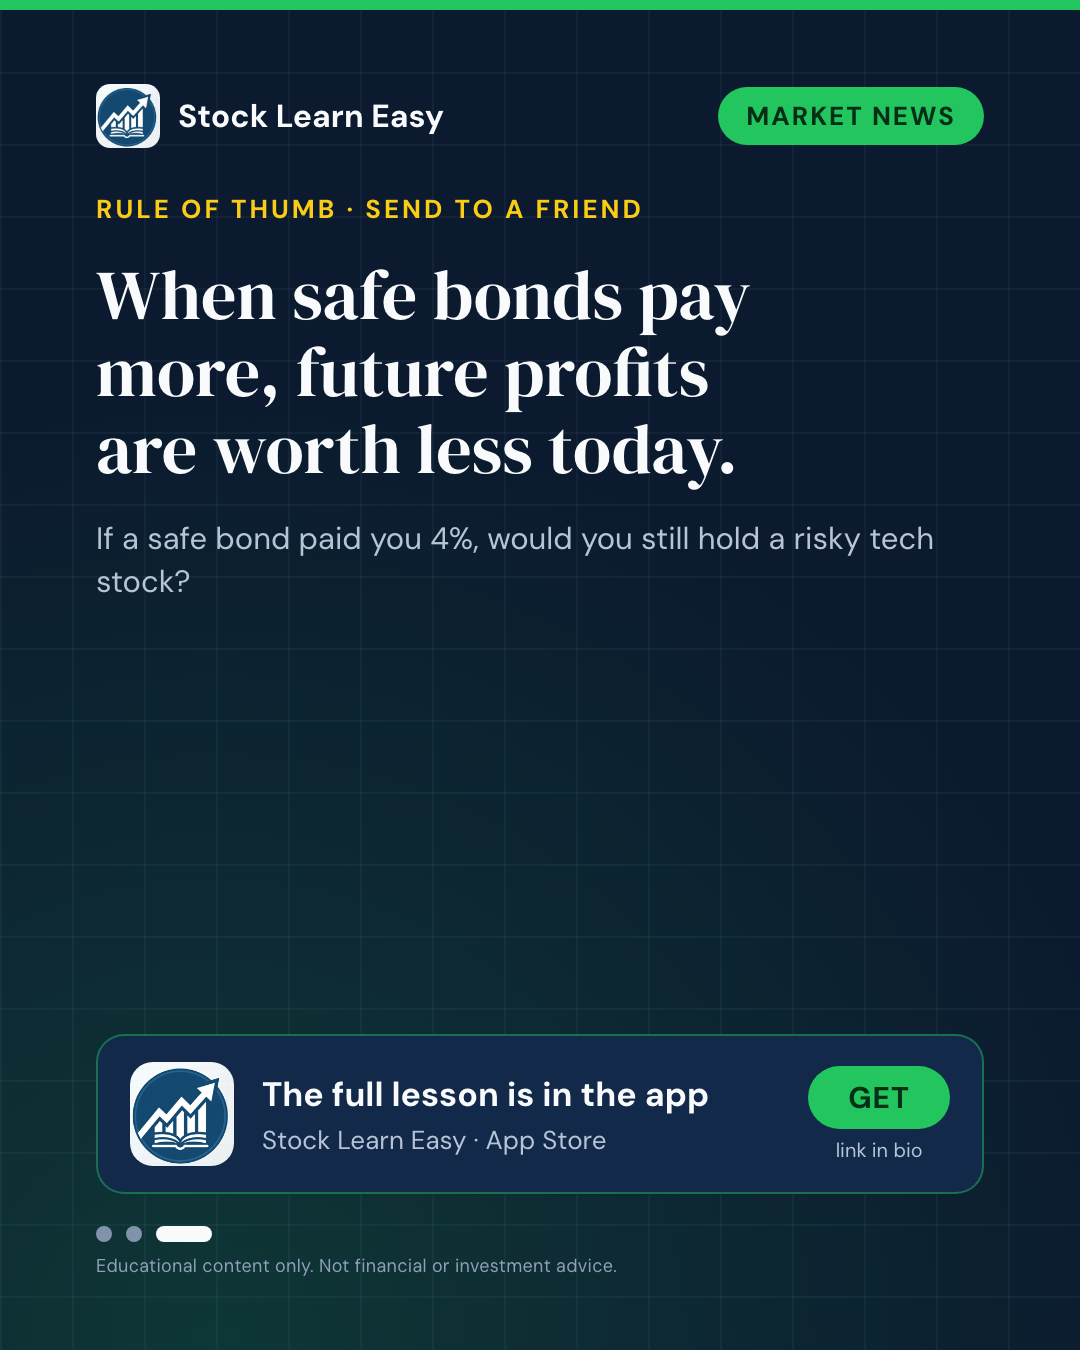
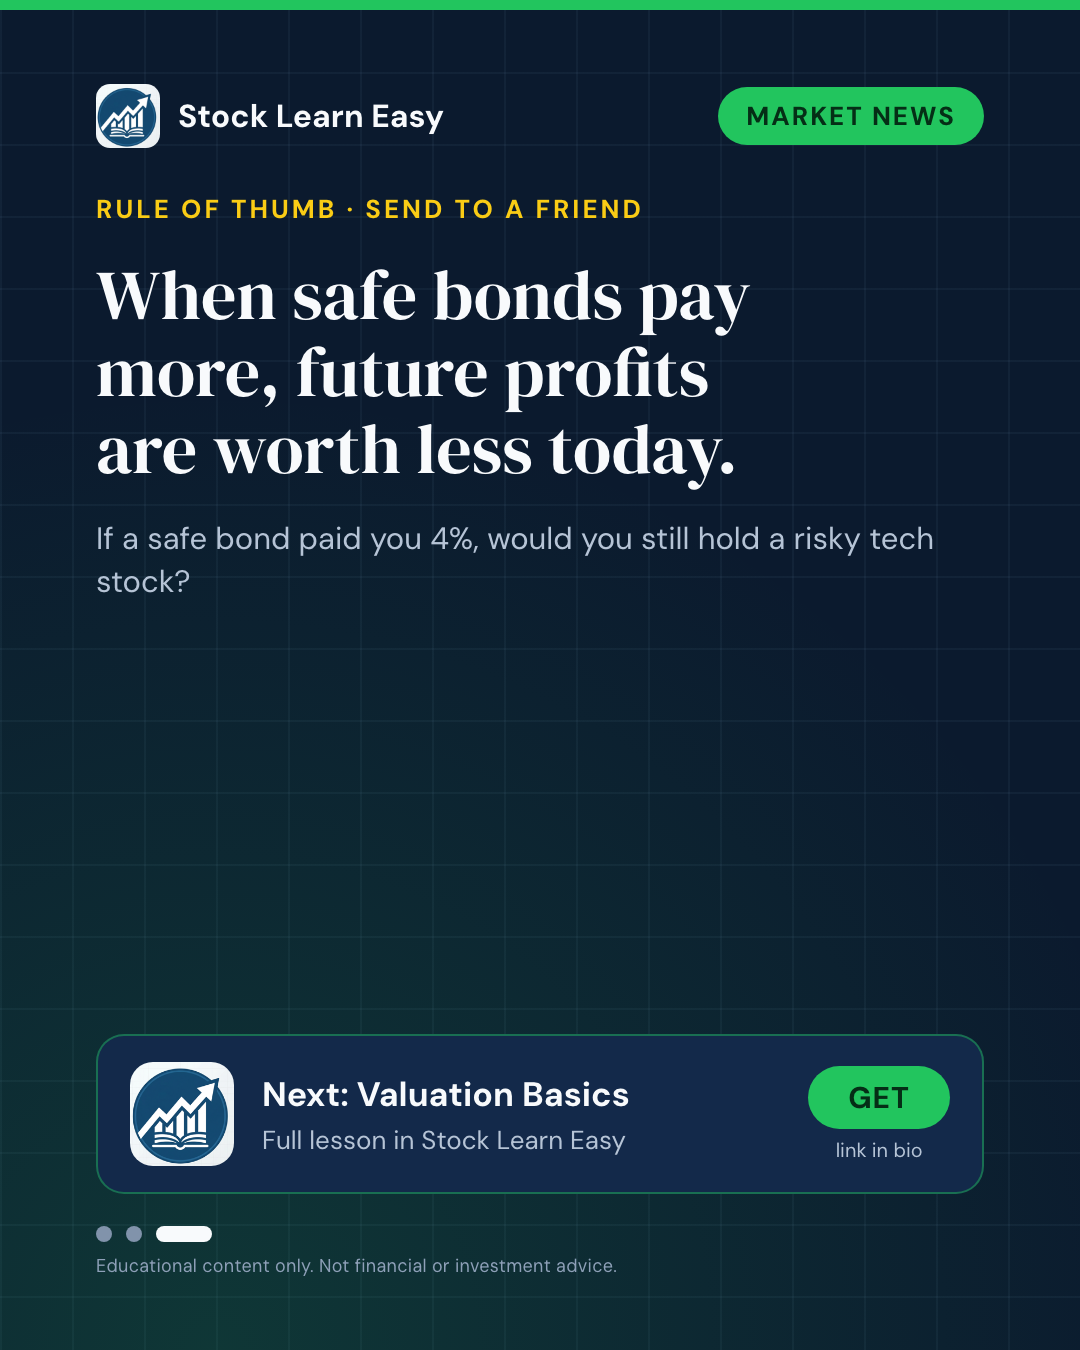
Item 74: name the app lesson the post continues into, in the caption and the closing card

Changed region(s): [[0.2444, 0.7778, 0.6722, 0.8711]]

diff --git a/lessons.py b/lessons.py
@@ -1,0 +1,165 @@
+"""Backlog item 74 (20.10.2026): name the lesson that continues in the app.
+
+Until now every caption and every closing card said "the full lesson", which
+promises nothing in particular. A reader who just learned what a stock split
+is will tap for "Dividends & Stock Splits", not for "the full lesson".
+
+The catalogue below is the English app's own lesson list, copied from
+~/stock-learn-easy-mobile/src/data/en/lessons (44 lessons, the number on the
+App Store page) on 20.10.2026. If a lesson is renamed in the app, rename it
+here; the title must be one a user can actually find.
+
+Gated, not asked for: the copy model never writes the lesson name. It is
+picked here from the post's own words, and a post that matches nothing well
+enough keeps the generic line. An invented lesson title cannot ship, because
+the only titles that can come out of this module are the ones in LESSONS.
+"""
+
+import re
+
+# (app title, short title for the card, keyword phrases). Phrases are matched
+# as whole words, case-insensitive. Keep them specific: a phrase that fits half
+# the news ("market", "stock") would route everything to one lesson.
+LESSONS = [
+    ("What Are Stocks?", "What Are Stocks?",
+     ["what is a stock", "shareholder", "shareholders", "equity", "preferred stock",
+      "common stock", "ownership", "ipo", "going public", "blue chip"]),
+    ("How Stock Markets Work", "How Stock Markets Work",
+     ["stock exchange", "nyse", "nasdaq", "market maker", "market makers",
+      "bid-ask", "bid ask", "bid-ask spread", "trading hours", "liquidity", "short selling"]),
+    ("Understanding Market Capitalization", "Market Capitalization",
+     ["market cap", "market capitalization", "large-cap", "small-cap", "mid-cap",
+      "magnificent seven", "megacap", "mega-cap", "index concentration"]),
+    ("Bull & Bear Markets", "Bull & Bear Markets",
+     ["bull market", "bear market", "correction", "market cycle", "sentiment",
+      "record high", "52-week high/low", "selloff", "sell-off", "rally", "52-week high", "52-week low",
+      "calendar effect", "october"]),
+    ("Dividends & Stock Splits", "Dividends & Stock Splits",
+     ["dividend", "dividends", "dividend yield", "stock split", "reverse split",
+      "payout", "ex-dividend", "buyback", "buybacks"]),
+    ("Types of Stock Orders", "Types of Stock Orders",
+     ["limit order", "market order", "stop-loss", "stop loss", "order type"]),
+    ("Income Statement Analysis", "The Income Statement",
+     ["revenue", "earnings", "profit", "profits", "margin", "margins", "ebitda",
+      "net income", "quarterly results", "sales"]),
+    ("Balance Sheet Fundamentals", "The Balance Sheet",
+     ["balance sheet", "debt", "liabilities", "assets", "book value"]),
+    ("Cash Flow Statement", "Cash Flow Statement",
+     ["cash flow", "free cash flow", "capex", "capital spending", "big spending",
+      "deferred costs"]),
+    ("Key Financial Ratios", "Key Financial Ratios",
+     ["ratio", "ratios", "roe", "return on equity", "leverage"]),
+    ("Growth Metrics & Analysis", "Growth Metrics",
+     ["growth", "slowing growth", "cagr", "peg", "growth rate", "eps growth"]),
+    ("Competitive Analysis", "Competitive Analysis",
+     ["competitor", "competitors", "competition", "moat", "market share",
+      "rival", "rivals", "soda wars", "picks and shovels", "contract", "contracts"]),
+    ("Valuation Basics & Intrinsic Value", "Valuation Basics",
+     ["valuation", "valuations", "intrinsic value", "overvalued", "undervalued",
+      "fair value", "expectations"]),
+    ("Price-to-Earnings (P/E) Analysis", "P/E Analysis",
+     ["p/e", "pe ratio", "price-to-earnings", "price to earnings", "earnings multiple",
+      "forward earnings", "cape"]),
+    ("Discounted Cash Flow (DCF) Model", "The DCF Model",
+     ["dcf", "discounted cash flow", "discount rate", "present value"]),
+    ("Dividend Discount Model (DDM)", "Dividend Discount Model",
+     ["dividend discount", "gordon growth"]),
+    ("Risk Basics & Fundamentals", "Risk Basics",
+     ["risk tolerance", "time horizon", "risk"]),
+    ("Types of Investment Risk", "Types of Investment Risk",
+     ["credit risk", "interest rate risk", "inflation risk", "currency risk",
+      "headline risk", "new competitor risk", "concentration risk", "default"]),
+    ("Risk Assessment & Measurement", "Measuring Risk",
+     ["volatility", "vix", "beta", "drawdown", "standard deviation", "sharpe"]),
+    ("Behavioral & Psychological Risk", "Behavioral Risk",
+     ["fear", "greed", "panic", "fomo", "bias", "biases", "herd", "anxiety",
+      "emotion", "emotions", "happiness"]),
+    ("Hedging Techniques", "Hedging Techniques",
+     ["hedge", "hedging", "options", "put option", "inverse etf"]),
+    ("Chart Basics & Candlesticks", "Chart Basics",
+     ["candlestick", "candlesticks", "chart", "price chart"]),
+    ("Support & Resistance", "Support & Resistance",
+     ["support", "resistance", "breakout"]),
+    ("Moving Averages", "Moving Averages",
+     ["moving average", "200-day", "50-day"]),
+    ("Volume Analysis", "Volume Analysis",
+     ["volume", "trading volume"]),
+    ("Technical Indicators", "Technical Indicators",
+     ["rsi", "macd", "indicator", "indicators", "overbought", "oversold"]),
+    ("Trend Analysis", "Trend Analysis",
+     ["trend", "trends", "trendline", "uptrend", "downtrend"]),
+    ("Asset Allocation Strategies", "Asset Allocation",
+     ["asset allocation", "stocks and bonds", "bonds", "bond", "60/40",
+      "yields get attractive", "treasury", "treasuries", "yield", "yields"]),
+    ("Diversification Strategies", "Diversification",
+     ["diversification", "diversify", "diversified", "index fund", "etf", "etfs",
+      "s&p 500", "three-fund"]),
+    ("Dollar-Cost Averaging", "Dollar-Cost Averaging",
+     ["dollar-cost averaging", "dollar cost averaging", "dca", "every month",
+      "lump sum"]),
+    ("Portfolio Rebalancing", "Portfolio Rebalancing",
+     ["rebalance", "rebalancing", "drift"]),
+    ("International Investing", "International Investing",
+     ["international", "emerging markets", "china", "europe", "japan", "germany",
+      "global", "tariff", "tariffs"]),
+    ("Retirement Portfolio Planning", "Retirement Planning",
+     ["retirement", "retire", "401(k)", "401k", "ira", "social security", "pension"]),
+    ("Tax-Efficient Investing", "Tax-Efficient Investing",
+     ["tax", "taxes", "capital gains", "roth", "tax-loss"]),
+    ("Investment Goal Setting", "Setting Goals",
+     ["goal", "goals", "saving", "savings", "credit card", "credit cards",
+      "budget", "paycheck"]),
+    ("Performance Tracking", "Performance Tracking",
+     ["performance", "returns", "benchmark", "beat the market"]),
+]
+
+# No macro mapping on purpose. The app has no lesson on rates, inflation or the
+# Fed, and routing those stories to "Valuation Basics" sent the Social Security
+# inflation post to a valuation lesson. A macro post keeps the generic line
+# unless its own words point at a real lesson (bonds, retirement, and so on).
+
+TITLES = {title for title, _, _ in LESSONS}
+
+# The weight of a hit depends on where it lands. The term's own name is the
+# strongest evidence of what the post teaches, the concept line next, then the
+# prose. The headline counts least, because news headlines name companies and
+# events, not ideas.
+_WEIGHTS = (("term", 5), ("concept", 4), ("hook", 1), ("explain", 1),
+            ("takeaway", 1), ("headline", 0.5))
+
+# Below this the match is a guess, and the generic line is better than a
+# confident wrong title.
+MIN_SCORE = 2
+
+
+def _count(phrase, text):
+    return len(re.findall(r"(?<![\w/])" + re.escape(phrase) + r"(?![\w/])", text))
+
+
+def pick_lesson(copy, term=None, news=None):
+    """Return (app title, card title) for the best-matching lesson, or None."""
+    fields = {
+        "term": (term[0] if term else "") or "",
+        "concept": copy.get("concept", ""),
+        "hook": copy.get("hook", ""),
+        "explain": copy.get("explain", ""),
+        "takeaway": copy.get("takeaway", ""),
+        "headline": (news or {}).get("title", "") if news else "",
+    }
+    fields = {k: v.lower() for k, v in fields.items()}
+
+    best, best_score = None, 0.0
+    for title, short, phrases in LESSONS:
+        score = 0.0
+        for field, weight in _WEIGHTS:
+            text = fields[field]
+            if not text:
+                continue
+            score += weight * sum(min(_count(p, text), 2) for p in phrases)
+        if score > best_score:
+            best, best_score = title, score
+    if best is None or best_score < MIN_SCORE:
+        return None
+    short = next(s for t, s, _ in LESSONS if t == best)
+    assert best in TITLES
+    return best, short

diff --git a/generate.py b/generate.py
@@ -31,6 +31,7 @@ from pathlib import Path
 
 import copy_check
 import design
+import lessons
 import market_data
 import reel
 import repost
@@ -656,6 +657,20 @@ def write_post_copy(category, news=None, term=None, ticker=None,
 APP_CTA = "📲 Want the full lesson? Stock Learn Easy on the App Store, link in bio."
 
 
+# Backlog item 74 (20.10.2026). "The full lesson" promised nothing in
+# particular; the line now names the app lesson this post continues into,
+# picked by lessons.pick_lesson from the app's own catalogue, never written by
+# the model. A post that matches no lesson well enough keeps APP_CTA. Item 73
+# (one mention, same place every time) was already true: this line sits right
+# above the disclaimer on every caption, and the closing card carries the same
+# lesson name.
+def app_cta(copy, news=None, term=None):
+    match = lessons.pick_lesson(copy, term=term, news=news)
+    if not match:
+        return APP_CTA
+    return f'📲 The full lesson, "{match[0]}", is in Stock Learn Easy on the App Store. Link in bio.'
+
+
 # Backlog item 16 (4.10.2026). One post in five asks for the follow, and says
 # what following gets you. Asking every time reads as needy and stops being
 # read; never asking leaves the one action that compounds unasked. Keyed on the
@@ -755,7 +770,7 @@ def make_caption(category, copy, news=None, term=None, ticker=None, slot=None):
         f"{copy['takeaway']}\n\n"
         f"{copy['question']}\n\n"
         f"{follow_line}"
-        f"{APP_CTA}\n\n"
+        f"{app_cta(copy, news=news, term=term)}\n\n"
         f"⚠ {DISCLAIMER}\n\n"
         f"{tag}\n"
         f"{tags}"
@@ -1035,6 +1050,13 @@ def render_slide_html(kind, position, total, category, when_utc, copy,
         foot = _card_foot(position, total, "Swipe →")
     else:
         take_px = design.size_for(copy["takeaway"], [(50, 80), (70, 70), (999, 62)])
+        # Item 74: the strip names the lesson this post continues into, the
+        # same one the caption names, or keeps the generic line on no match.
+        match = lessons.pick_lesson(copy, term=term, news=news)
+        if match:
+            lesson_line, lesson_sub = f"Next: {match[1]}", "Full lesson in Stock Learn Easy"
+        else:
+            lesson_line, lesson_sub = "The full lesson is in the app", "Stock Learn Easy · App Store"
         main = (
             '<div class="main" data-fit-box style="justify-content:flex-start;gap:30px;padding-top:12px;">'
             # "SAVE THIS" since 29.9, and 7 days of posts returned 0 saves. The
@@ -1056,8 +1078,8 @@ def render_slide_html(kind, position, total, category, when_utc, copy,
             f'<div class="cta" style="gap:28px;padding:26px 32px;border:2px solid rgba(34,197,94,0.45);">'
             f'<img src="{design.ICON_URI}" width="104" height="104" alt="">'
             '<div style="display:flex;flex-direction:column;gap:6px;flex:1;min-width:0;">'
-            '<div class="t1" style="font-size:34px;">The full lesson is in the app</div>'
-            '<div class="t2" style="font-size:26px;">Stock Learn Easy · App Store</div>'
+            f'<div class="t1" style="font-size:34px;">{escape(lesson_line)}</div>'
+            f'<div class="t2" style="font-size:26px;">{escape(lesson_sub)}</div>'
             '</div>'
             '<div style="display:flex;flex-direction:column;align-items:center;gap:8px;flex-shrink:0;">'
             f'<div style="background:{design.GREEN};color:{design.GREEN_INK};font-weight:700;'

diff --git a/IMPROVEMENTS.md b/IMPROVEMENTS.md
@@ -142,3 +142,9 @@ One improvement per run of `stocklearneasy-ig-improve`. Read before choosing.
 - **Items 62, 66, 70 checked:** Hebrew reels were silent by design already; scene length already follows the audio; reels are 4 to 7MB at about 1.8Mbps. A 100MB ceiling guards against a broken encode.
 - **Left:** 67 and 69 need ten reels of each shape first. Hebrew account untouched beyond the check on 62.
 - **Numbers (7d):** 3 followers, 12 posts, reach 65, views 92, 3 likes, 0 comments, saves or shares. The 18.10 reel reached 27, the account's best since 10.10; carousels 1 to 2, reels 2 to 27. One post, nothing credited.
+
+## 2026-10-20: item 74, the closing line names a real lesson; 67, 73 and 86 checked
+- **Item 74, gated, `lessons.py`:** the app's 44 lessons (copied from stock-learn-easy-mobile/src/data/en/lessons) with keyword phrases. The caption line is now `📲 The full lesson, "Bull & Bear Markets", is in Stock Learn Easy...`, and the closing card's strip says "Next: Bull & Bear Markets". Picked in code from the post's own words, never by the model, so a made-up lesson title cannot ship; under the score floor the generic line stays. Last 33 posts: 26 matched, 7 generic, mostly rates and inflation (no such lesson in the app, and forcing them onto "Valuation Basics" sent a Social Security post there, so that mapping was dropped).
+- **Queue:** 21.10 12:00 (reel re-uploaded) and 18:00 rebuilt, closing card inspected. 20.10 18:00 left alone, it publishes as this runs. Hebrew account not touched.
+- **Item 73 checked:** the app line was already one per caption, same place. **Items 67 and 86:** winners.md already splits by shape and flags under 10 posts. News reels median reach 5 over 19, carousels 2 over 36.
+- **Numbers (7d):** 3 followers, 12 posts, reach 66, views 99, 4 likes, 0 comments, saves or shares. The 18.10 reel at 27 is the best post; carousels 1 to 2. Flat. Nothing credited.

diff --git a/metrics/winners.md b/metrics/winners.md
@@ -1,14 +1,14 @@
 # Above-median posts (backlog item 19)
 
-Generated by winners.py from the 2026-10-17..2026-10-19 snapshots. 61 posts, median reach 2.
+Generated by winners.py from the 2026-10-17..2026-10-20 snapshots. 63 posts, median reach 2.
 
 Copy the structure, never the topic. A shape with fewer than 10 posts is an anecdote (item 86).
 
 ## Median reach by shape
 
 - episode reel: median 16.5 over 4 posts (too few to conclude)
-- news reel: median 5 over 18 posts
-- carousel: median 2 over 35 posts
+- news reel: median 5 over 19 posts
+- carousel: median 2 over 36 posts
 - carousel, question-hook: median 1.5 over 2 posts (too few to conclude)
 - carousel, plain-hook: median 1 over 2 posts (too few to conclude)
 
@@ -27,6 +27,7 @@ Copy the structure, never the topic. A shape with fewer than 10 posts is an anec
 - 2026-09-30T1200 reach 5, shares 0, saves 0: news reel, 24.61s, movers. "📉📈 Market Movers"
 - 2026-10-02T1200 reach 5, shares 0, saves 0: news reel, 29.76s, news. "📰 Today's Market News"
 - 2026-10-13T1200 reach 5, shares 0, saves 0: news reel, 21.51s, term, question hook. "Is $90 cheap or expensive for this stock?"
+- 2026-10-19T1200 reach 5, shares 0, saves 0: news reel, 29.66s, macro. "Inflation ran hot. Bond buyers bought anyway."
 - 2026-10-05T1115 reach 4, shares 0, saves 0: episode reel, 20.5s, compound. "Slow for years. Then fast."
 - 2026-09-22T1200 reach 3, shares 0, saves 0: carousel, movers. "📉📈 Market Movers"
 - 2026-09-28T1800 reach 3, shares 0, saves 0: carousel, macro. "🏦 Macro Watch"
